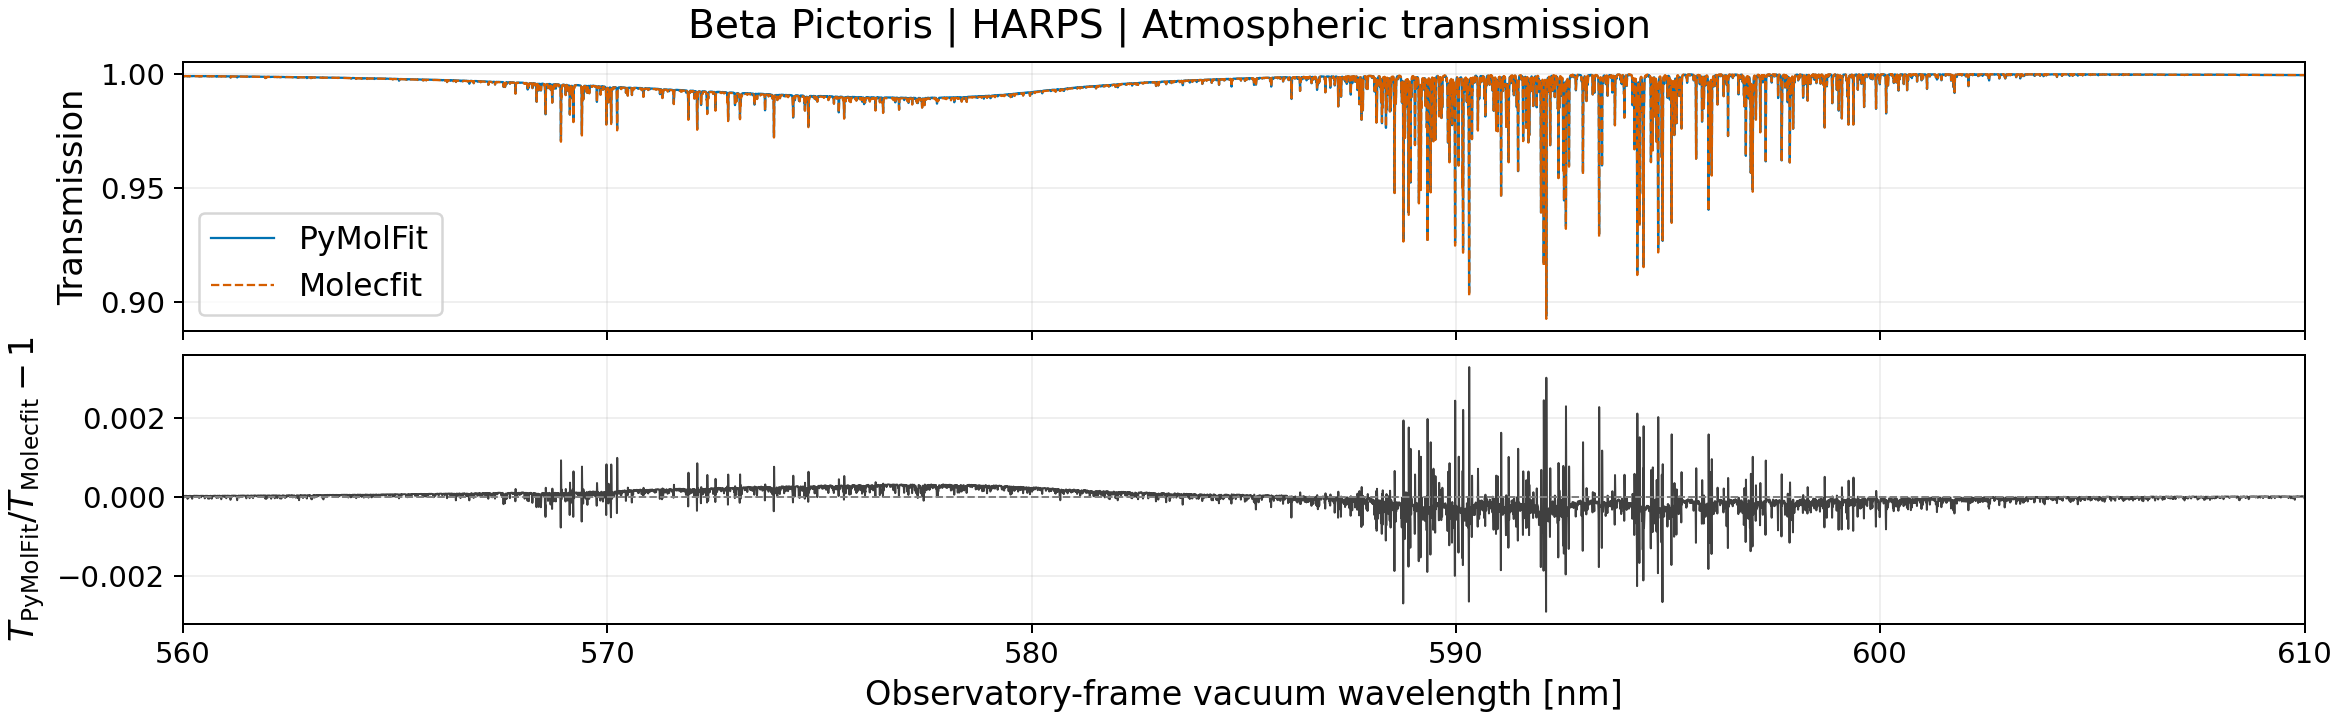
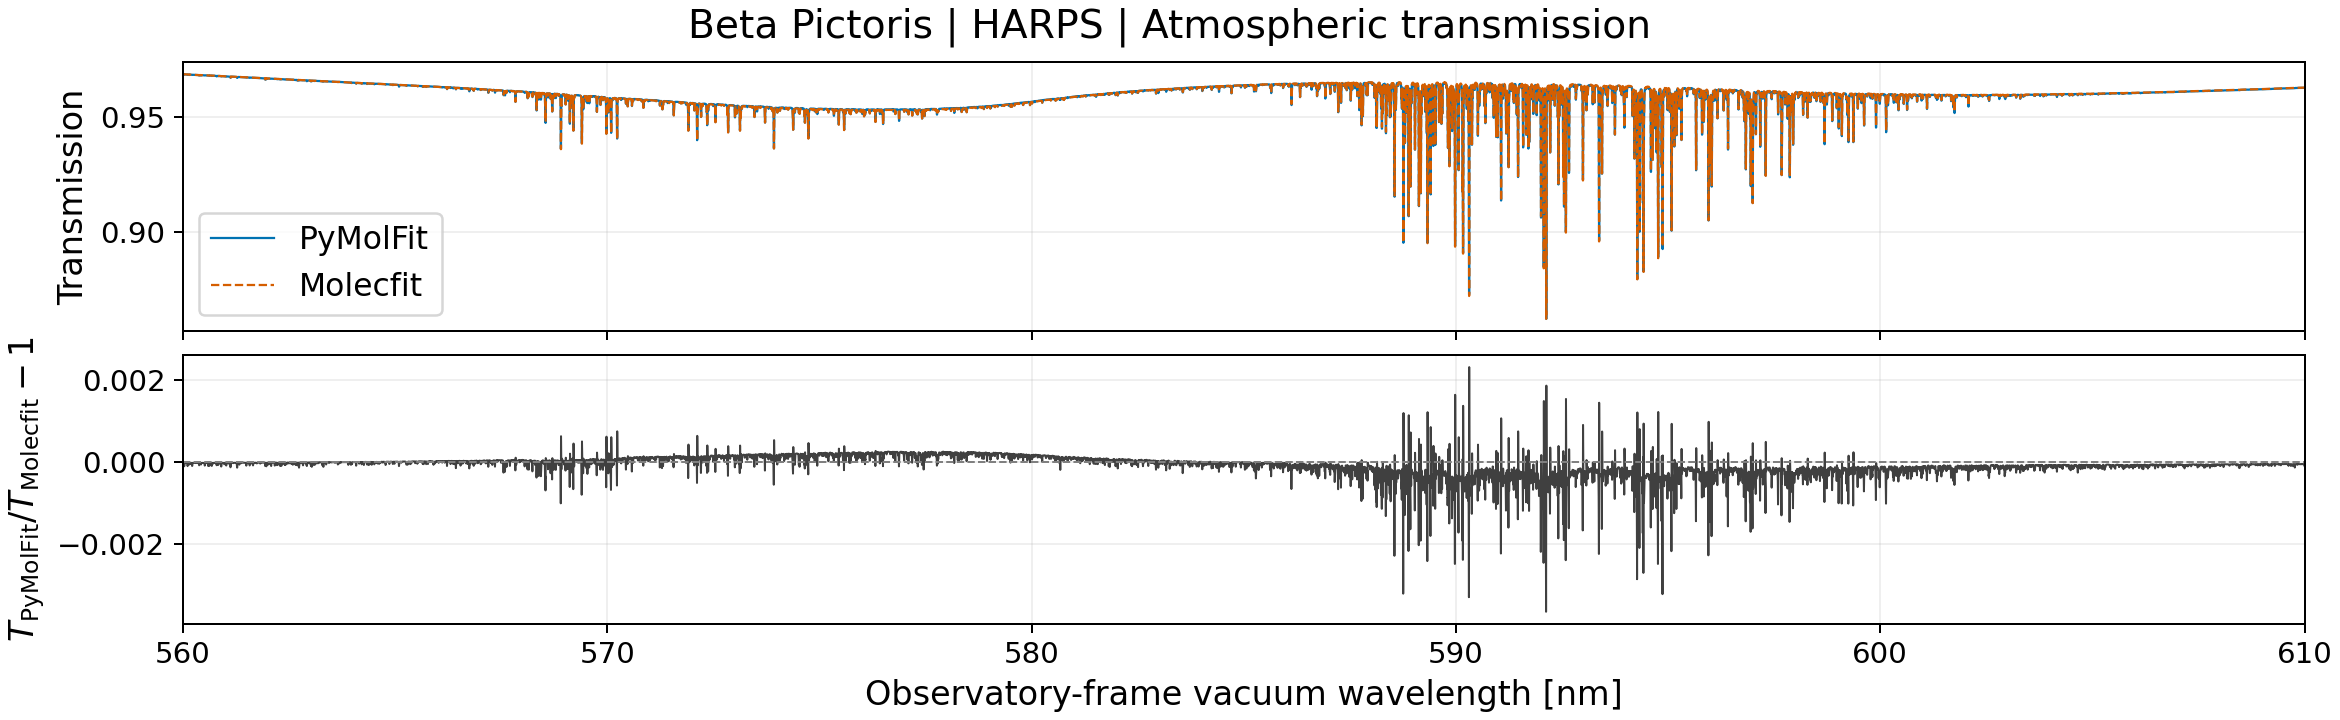
Updates from Overleaf

diff --git a/Main.tex b/Main.tex
@@ -139,7 +139,7 @@ The resulting framework provides its own interface and automated processing feat
 
 \Pymolfit\ automatically divides the spectrum into processing segments while preserving spectral-order and detector-group boundaries. Fitting regions can be selected automatically or inspected and edited interactively. When a theoretical stellar spectrum is supplied, it can be used to identify stellar features and exclude them from telluric parameter estimation. These exclusions affect only the fit; atmospheric transmission is still calculated in the excluded regions when applying the correction.
 
-The core approach remains that of \molecfit: constructing an atmospheric model, fitting its predicted transmission to the observation, and using the fitted transmission to remove telluric absorption \citep{MOLECFIT1,MOLECFIT2}. The physical methods are established, but \pymolfit\ performs its own numerical calculations without executing \Molecfit\ or \LBLRTM. Differences in data handling, numerical implementation, and optimisation can therefore produce different transmission spectra and fitted parameters. These implementation differences are summarised in Tables~\ref{tab:physical_implementation} and~\ref{tab:fitting_implementation}, and the resulting corrections are compared in Sect.~\ref{sec:validation}.
+The core approach remains that of \molecfit: constructing an atmospheric model, fitting its predicted transmission to the observation, and using the fitted transmission to remove telluric absorption \citep{MOLECFIT1,MOLECFIT2}. \molecfit\ calculates atmospheric transmission using the Line-By-Line Radiative Transfer Model (\LBLRTM), which models absorption by individual molecular transitions and atmospheric continua. \pymolfit\ follows established physical methods but performs its own numerical calculations without executing either program. Differences in data handling, numerical implementation, and optimisation can therefore produce different transmission spectra and fitted parameters. These implementation differences are summarised in Tables~\ref{tab:physical_implementation} and~\ref{tab:fitting_implementation}, and the resulting corrections are compared in Sect.~\ref{sec:validation}.
 
 %%%%%%%%%%%%%%%%%%%%%%%%%%%%%%%%%%%%%%%%%%%%%%%%%%%%%%%%%%%%%%%%%%%%%%%%%%%%%%%%
 % 3 Methodology
@@ -156,7 +156,7 @@ where \(\mathcal{L}_i\) is the light path within the layer and \(\ell\) measures
 
 Absorption is evaluated on a grid finer than the detector sampling. The AER catalogue \citep{AER} supplies line positions, integrated strengths \(S_j(T_{\mathrm{ref}})\), and broadening parameters at \(T_{\mathrm{ref}}=296\,\mathrm{K}\) \citep{HITRAN}. Defining the wavenumber \(\tilde{\nu}=1/\lambda\), where \(\lambda\) is wavelength, the cross section for transition \(j\) in layer \(i\) is
 \begin{equation} \sigma_{j,i}(\tilde{\nu}) = S_j(T_i)\,\phi_{j,i}(\tilde{\nu}). \end{equation}
-Here, \(S_j(T_i)\) is the strength adjusted to the layer temperature \(T_i\), and \(\phi_{j,i}\) is the effective Voigt-based profile. Local pressure, temperature, and composition determine the line position and Doppler and collisional broadening. The discrete-line optical depth is
+Here, \(S_j(T_i)\) is the line strength adjusted to the layer temperature \(T_i\), and \(\phi_{j,i}\) is the absorption profile, based on a Voigt function combining thermal and collisional broadening. Local pressure, temperature, and composition determine the line position and Doppler and collisional broadening. The discrete-line optical depth is
 \begin{equation} \tau_{\mathrm{lines}}(\tilde{\nu}) = \sum_i\sum_s N_{s,i}\sum_{j\in s}\sigma_{j,i}(\tilde{\nu}), \end{equation}
 where \(j\in s\) denotes transitions of species \(s\). Enabled atmospheric continuum contributions, including water-vapour and carbon-dioxide absorption, give an additional optical depth \(\tau_{\mathrm{cont}}\) \citep{MTCKD,LBLRTM}. The total optical depth and Beer--Lambert transmission are \citep{RYBICKI1979}
 \begin{equation}
@@ -234,7 +234,7 @@ where \(\widehat T_{kp}\) now denotes the final fitted transmission. This step a
 
 \section{Validation}\label{sec:validation}
 
-We assess \pymolfit\ against \molecfit, an established telluric-correction package with published performance evaluations \citep{MOLECFIT1,MOLECFIT2}. The comparisons use HARPS and ESPRESSO spectra and a CRIRES+ extraction. For each observation, both programs independently fit the same spectrum and uncertainties, using matched atmospheric inputs, spectroscopic data, and fitting and exclusion regions.
+We assess \pymolfit\ version 0.8.3 against \molecfit\ version 4.4.4, an established telluric-correction package with published performance evaluations \citep{MOLECFIT1,MOLECFIT2}. The comparisons use HARPS and ESPRESSO spectra and a CRIRES+ extraction. For each observation, both programs independently fit the same spectrum and uncertainties, using matched atmospheric inputs, spectroscopic data, and fitting and exclusion regions.
 
 \subsection{Na\,I D comparisons}
 
